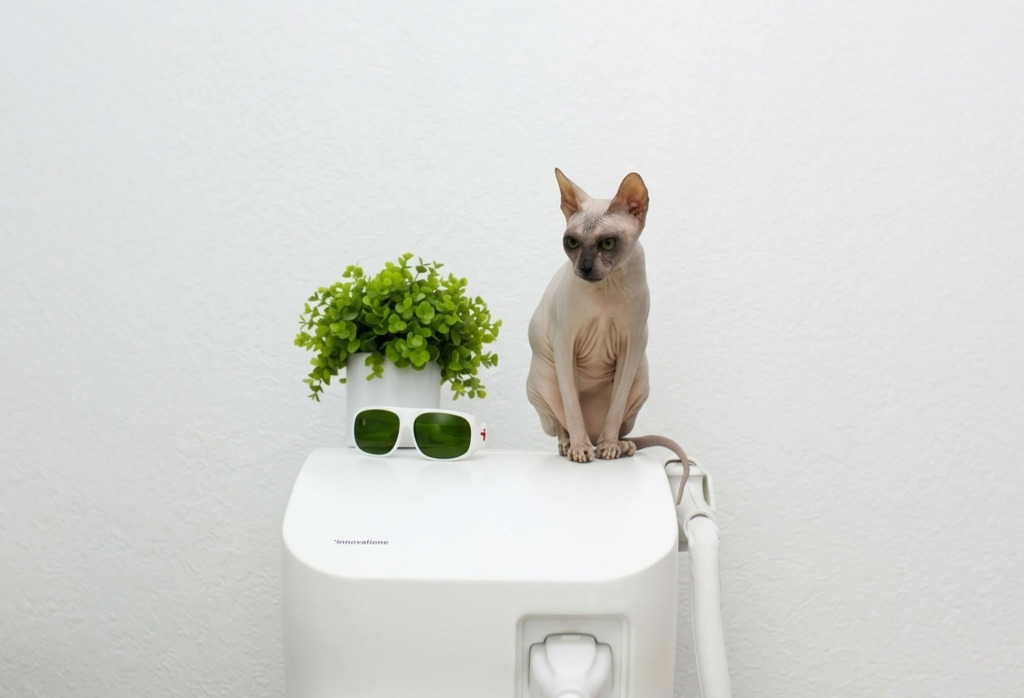
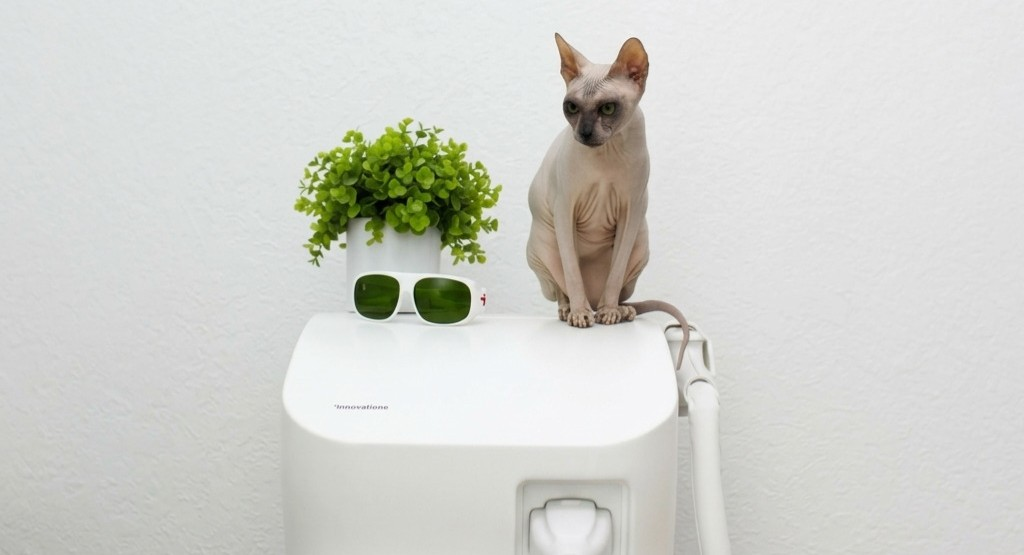
add promotions

Changed region(s): [[0.25, 0.0613, 0.7188, 0.9189], [0.3438, 0.7045, 0.375, 0.7351]]

diff --git a/src/lazer-men.html b/src/lazer-men.html
@@ -4,7 +4,7 @@
     <meta charset="UTF-8">
     <meta name="viewport" content="width=device-width, initial-scale=1.0">
     <meta name="description" content="Лазерная эпиляция для женщин в студии «Шёлк» в Барнауле: безболезненно, эффективно, надолго. Цены на лазер. Запись онлайн.">
-    <title>Лазерная эпиляция (женщинам) | Студия "Шёлк"</title>
+    <title>Лазерная эпиляция (мужчинам) | Студия "Шёлк"</title>
 
 
     <link rel="stylesheet" href="./styles/index.css">
@@ -16,10 +16,12 @@
 </head>
 <body class="flow lazer-page price-page">
     <header class="flex main-header">
-        <div class="flex"></div>
+        <div class="flex">
+
+        </div>
 
         <div class="flow flow--space-small">
-            <h1 class="uppercase">Студия эстетики тела</h1>
+            <h1 class="uppercase fs-900">Студия эстетики тела</h1>
             <img src="./assets/logo.svg" alt="Логотип студии Шёлк">
             <p class="lowercase">Всё будет гладко</p>
         </div>
@@ -27,8 +29,13 @@
 
     <main class="pricelist flow">
         <div class="pricelist-title has-lavender">
-            <h2>Лазерная эпиляция (женщинам)</h2>
+            <h2>Лазерная эпиляция (мужчинам)</h2>
         </div>
+        <div class="breadcrumb">
+            <a href="index.html" class="back-link">На главную</a>
+        </div>
+<div class="important-info-layout">
+    <!-- Блок "Важно!" -->
     <div class="warnings">
         <h3>Важно!</h3>
         <button type="button" class="warnings-link" data-modal="modal-contraindications">
@@ -39,6 +46,40 @@
         </button>
     </div>
 
+    <!-- Блок "Акции" -->
+    <div class="promotions-zone pricelist-zone" data-collapsed="true">
+        <!-- На мобильном это кнопка, на ПК это просто заголовок -->
+        <button type="button" class="pricelist-heading" aria-expanded="false">
+            <h3>Акции студии</h3>
+            <span class="arrow" aria-hidden="true">
+                <svg viewBox="0 0 24 24" width="20" height="20">
+                    <path d="M6 9l6 6 6-6" fill="none" stroke="currentColor" stroke-width="2" stroke-linecap="round" stroke-linejoin="round"/>
+                </svg>
+            </span>
+        </button>
+        
+        <div class="pricelist-items">
+            <ul class="promo-list">
+                <li>
+                    <span class="promo-icon"><img src="./assets/icons/icon-gift.svg" alt=""></span>
+                    <div><strong>Скидка 50%</strong> на первое посещение</div>
+                </li>
+                <li>
+                    <span class="promo-icon"><img src="./assets/icons/icon-cake.svg" alt=""></span>
+                    <div><strong>Скидка 10%</strong> неделю ДО и ПОСЛЕ дня рождения</div>
+                </li>
+                <li>
+                    <span class="promo-icon"><img src="./assets/icons/icon-calendar.svg" alt=""></span>
+                    <div><strong>Абонемент</strong> 6 посещений по стоимости 4-х</div>
+                </li>
+                <li>
+                    <span class="promo-icon"><img src="./assets/icons/icon-friend.svg" alt=""></span>
+                    <div><strong>Приведи друга</strong> и получи 50% от его чека на бонусный счёт</div>
+                </li>
+            </ul>
+        </div>
+    </div>
+</div>
         <!-- Лицо -->
         <div class="pricelist-zone" data-collapsed="true">
             <button type="button" class="pricelist-heading" aria-expanded="false">

diff --git a/src/styles/pages.css b/src/styles/pages.css
@@ -755,23 +755,6 @@ section {
     padding-top: 2rem;
 }
 
-/* фон */
-body.price-page::before {
-    content: '';
-    position: absolute;
-    top: 0;
-    left: 0;
-    width: 100%;
-    height: 120%;
-    z-index: -1;
-    background-image: url('../assets/decorations/lavender-watercolor.jpg');
-    background-size: cover;
-    background-position: center;
-    background-repeat: no-repeat;
-    opacity: 0.1;
-    will-change: transform;
-}
-
 /* Главный заголовок страницы */
 .pricelist-title {
     display: grid;
@@ -861,6 +844,117 @@ body.price-page::before {
 .warnings-link:focus-visible {
     outline: 2px solid var(--clr-purple-darkest);
     outline-offset: 2px;
+}
+/* ===== Раскладка блока "Важно!" и "Акции" ===== */
+
+/* Мобильная версия */
+.important-info-layout {
+    display: grid;
+    grid-template-columns: 1fr;
+    gap: var(--gap-medium);
+    margin-block: var(--gap-medium);
+    width: 100%;
+}
+
+/* Стили для иконок */
+.promo-icon {
+    width: 1.5rem;
+    height: 1.5rem;
+    display: flex;
+    align-items: center;
+    justify-content: center;
+    flex-shrink: 0;
+}
+.promo-icon img {
+    width: 100%;
+    height: 100%;
+    object-fit: contain;
+}
+
+.promo-list {
+    list-style: none;
+    padding: 0;
+    margin: 0;
+    display: grid;
+    gap: 1rem;
+}
+
+.promo-list li {
+    display: flex;
+    align-items: flex-start;
+    gap: 0.75rem;
+    font-size: var(--fs-400);
+    line-height: 1.3;
+}
+
+.promo-list strong {
+    color: var(--clr-purple-darkest);
+}
+
+@media (min-width: 64em) {
+    .important-info-layout {
+        grid-template-columns: minmax(280px, 1fr) 2fr; 
+        align-items: stretch; 
+        gap: var(--gap-medium);
+        width: 95%; 
+        max-width: 1400px; 
+        margin-inline: auto; 
+    }
+
+    .warnings {
+        margin: 0;
+        height: 100%; 
+        display: flex;
+        flex-direction: column;
+        justify-content: center; 
+    }
+    .warnings h3 {
+        margin-bottom: var(--gap-medium); 
+    }
+    .promotions-zone,
+    .promotions-zone[data-collapsed="true"] {
+        background-color: var(--clr-bg-alt);
+        border-radius: var(--border-radius);
+        padding: var(--gap-medium);
+        box-shadow: var(--shadow);
+        border-left: 4px solid var(--clr-purple); 
+        margin: 0;
+        height: 100%;
+        display: grid;
+        grid-template-rows: auto 1fr !important; 
+        flex-direction: column;
+    }
+    .promotions-zone .pricelist-heading {
+        background: none;
+        color: var(--clr-purple-darkest);
+        padding: 0 0 var(--gap-medium) 0;
+        cursor: default;
+        pointer-events: none;
+        text-align: left;
+        justify-content: flex-start;
+        display: block; 
+    }
+    
+    .promotions-zone .pricelist-heading h3 {
+        font-size: var(--fs-600);
+        font-weight: 700;
+        margin: 0;
+    }
+
+    .promotions-zone .pricelist-heading .arrow {
+        display: none;
+    }
+
+    .promotions-zone .pricelist-items {
+        padding-top: 0;
+        min-height: auto; 
+        flex-grow: 1; 
+    }
+    .promo-list {
+        grid-template-columns: 1fr 1fr; 
+        gap: 1.5rem 1rem; 
+        align-items: start; 
+    }
 }
 
 /* -------------------------- */

diff --git a/src/lazer.html b/src/lazer.html
@@ -34,16 +34,52 @@
         <div class="breadcrumb">
             <a href="index.html" class="back-link">На главную</a>
         </div>
-        <div class="warnings">
-            <h3>Важно!</h3>
-            <button type="button" class="warnings-link" data-modal="modal-contraindications">
-                Противопоказания
-            </button>
-            <button type="button" class="warnings-link" data-modal="modal-preparation">
-                Подготовка к процедуре
-            </button>
-        </div>
+<div class="important-info-layout">
+    <!-- Блок "Важно!" -->
+    <div class="warnings">
+        <h3>Важно!</h3>
+        <button type="button" class="warnings-link" data-modal="modal-contraindications">
+            Противопоказания
+        </button>
+        <button type="button" class="warnings-link" data-modal="modal-preparation">
+            Подготовка к процедуре
+        </button>
+    </div>
 
+    <!-- Блок "Акции" -->
+    <div class="promotions-zone pricelist-zone" data-collapsed="true">
+        <!-- На мобильном это кнопка, на ПК это просто заголовок -->
+        <button type="button" class="pricelist-heading" aria-expanded="false">
+            <h3>Акции студии</h3>
+            <span class="arrow" aria-hidden="true">
+                <svg viewBox="0 0 24 24" width="20" height="20">
+                    <path d="M6 9l6 6 6-6" fill="none" stroke="currentColor" stroke-width="2" stroke-linecap="round" stroke-linejoin="round"/>
+                </svg>
+            </span>
+        </button>
+        
+        <div class="pricelist-items">
+            <ul class="promo-list">
+                <li>
+                    <span class="promo-icon"><img src="./assets/icons/icon-gift.svg" alt=""></span>
+                    <div><strong>Скидка 50%</strong> на первое посещение</div>
+                </li>
+                <li>
+                    <span class="promo-icon"><img src="./assets/icons/icon-cake.svg" alt=""></span>
+                    <div><strong>Скидка 10%</strong> неделю ДО и ПОСЛЕ дня рождения</div>
+                </li>
+                <li>
+                    <span class="promo-icon"><img src="./assets/icons/icon-calendar.svg" alt=""></span>
+                    <div><strong>Абонемент</strong> 6 посещений по стоимости 4-х</div>
+                </li>
+                <li>
+                    <span class="promo-icon"><img src="./assets/icons/icon-friend.svg" alt=""></span>
+                    <div><strong>Приведи друга</strong> и получи 50% от его чека на бонусный счёт</div>
+                </li>
+            </ul>
+        </div>
+    </div>
+</div>
         <!-- Лицо -->
         <div class="pricelist-zone" data-collapsed="true">
             <button type="button" class="pricelist-heading" aria-expanded="false">
